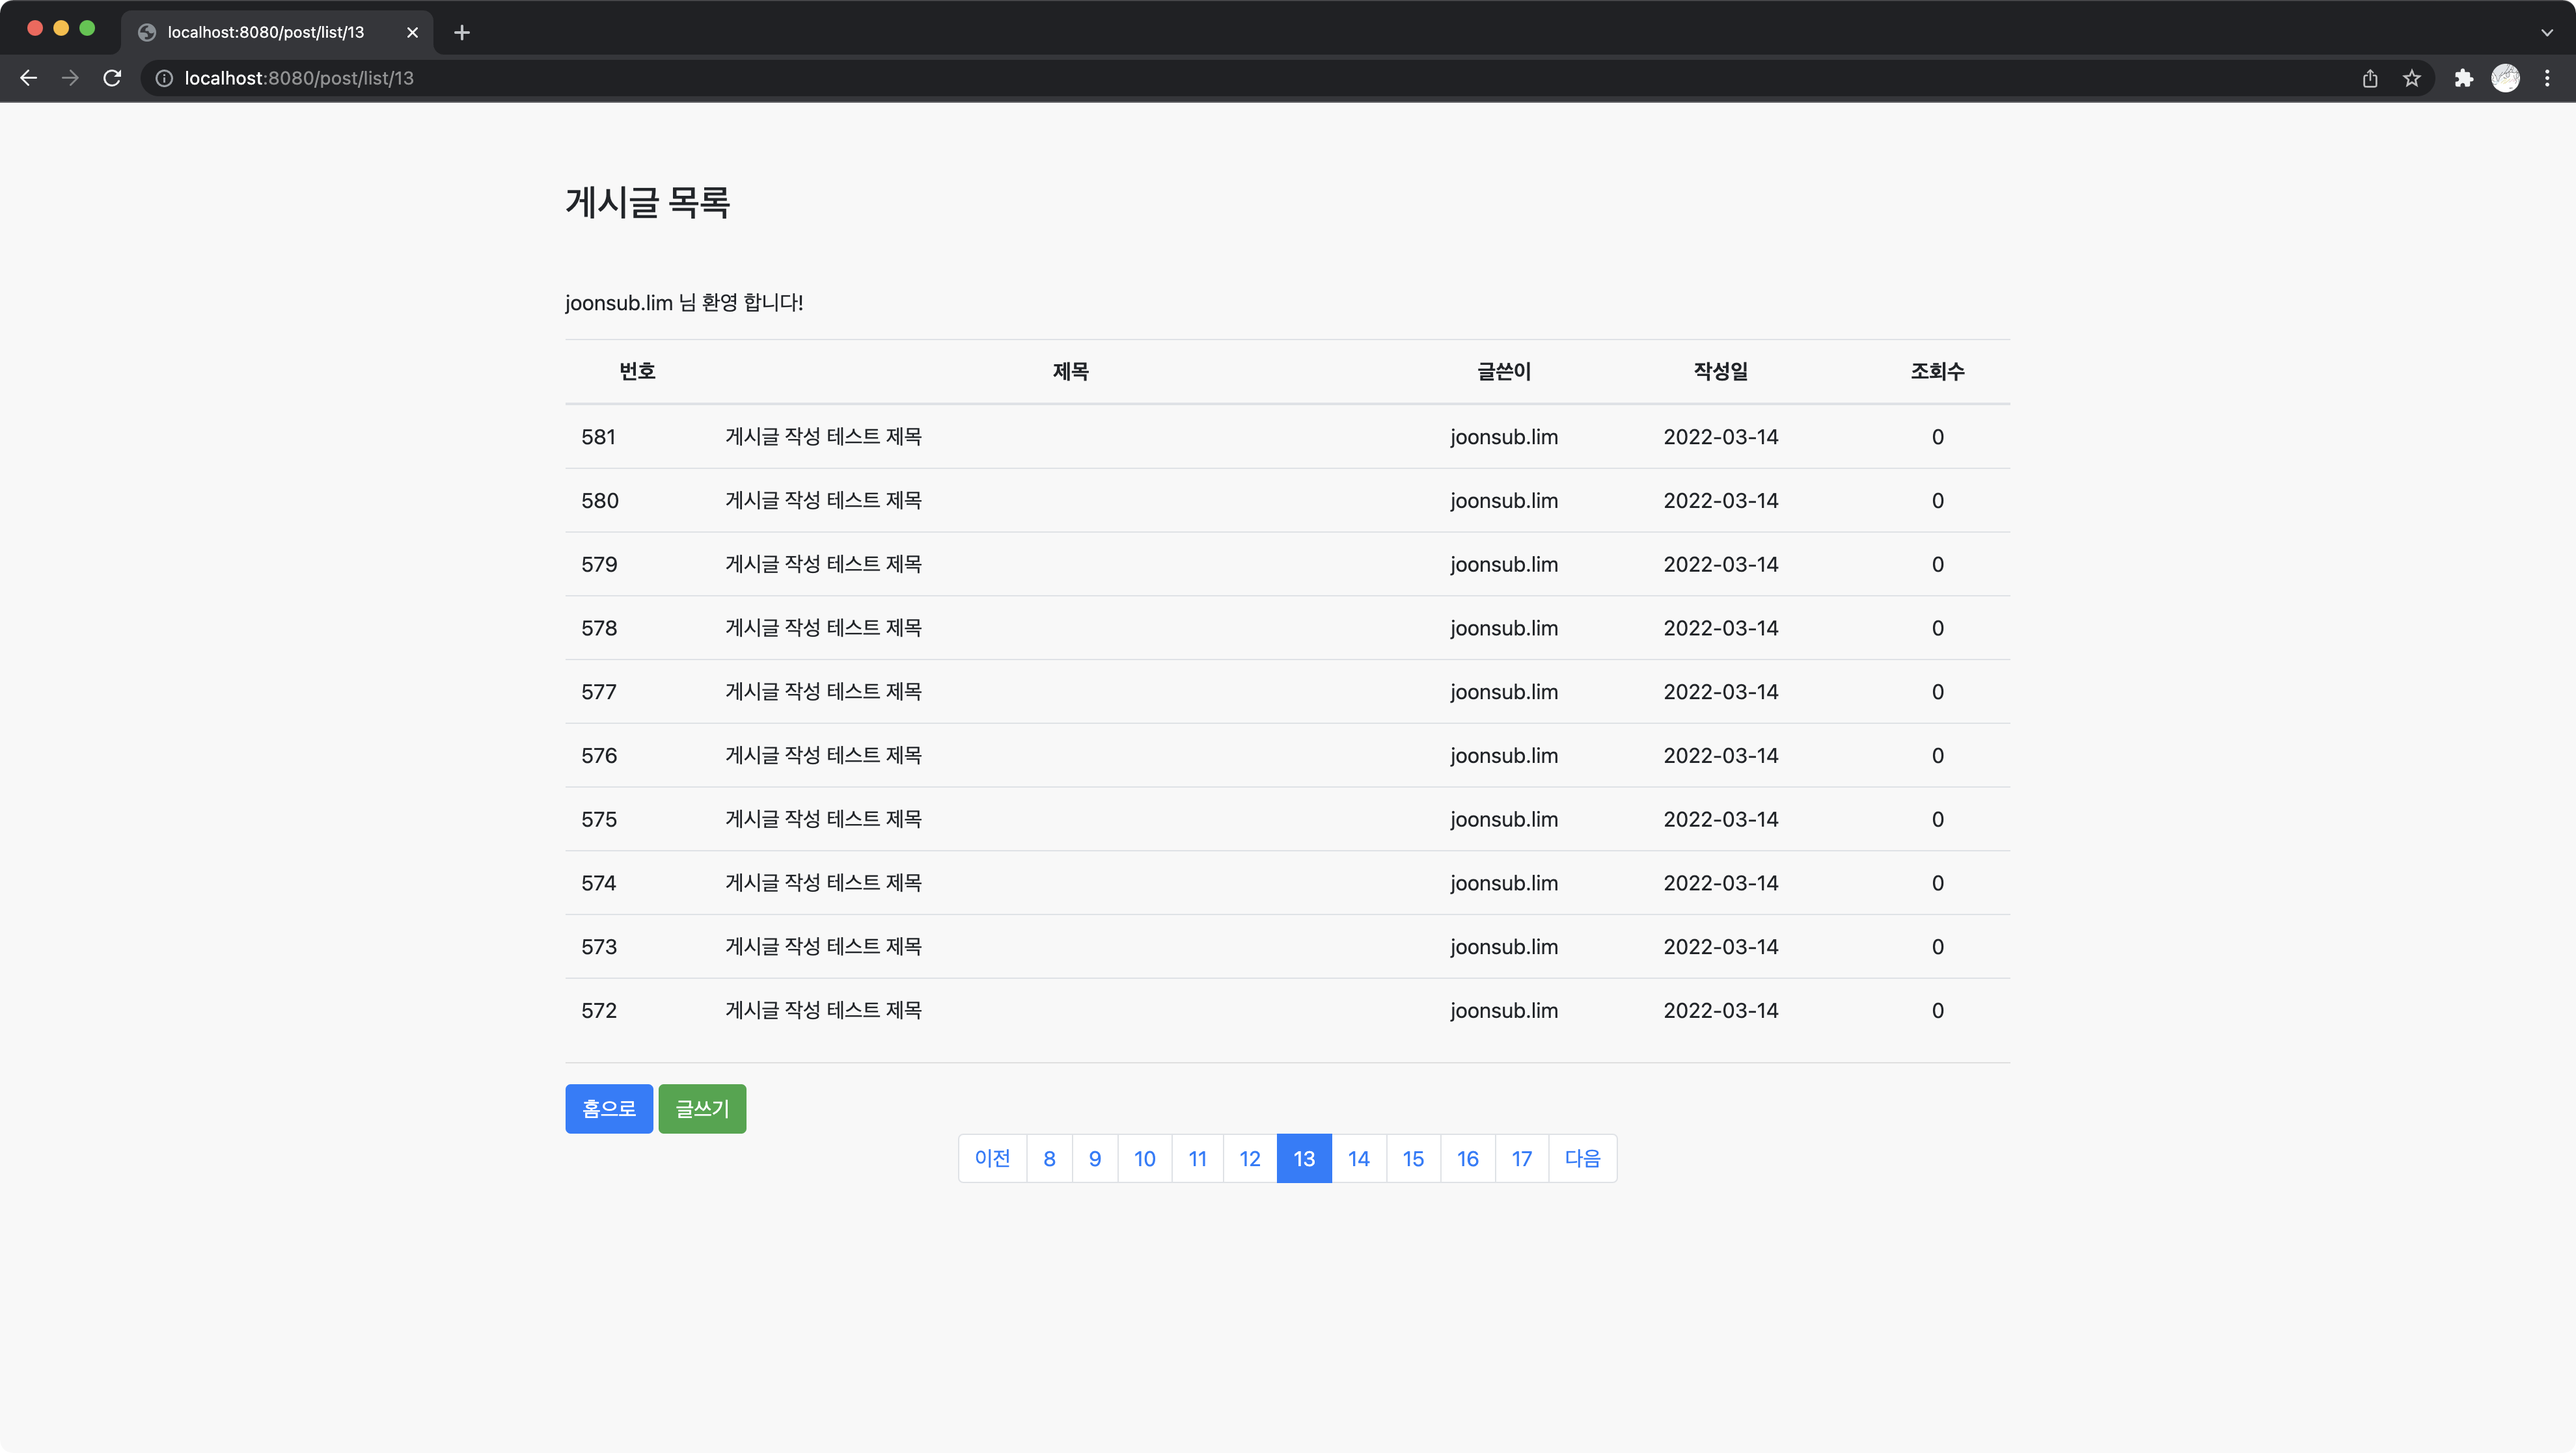
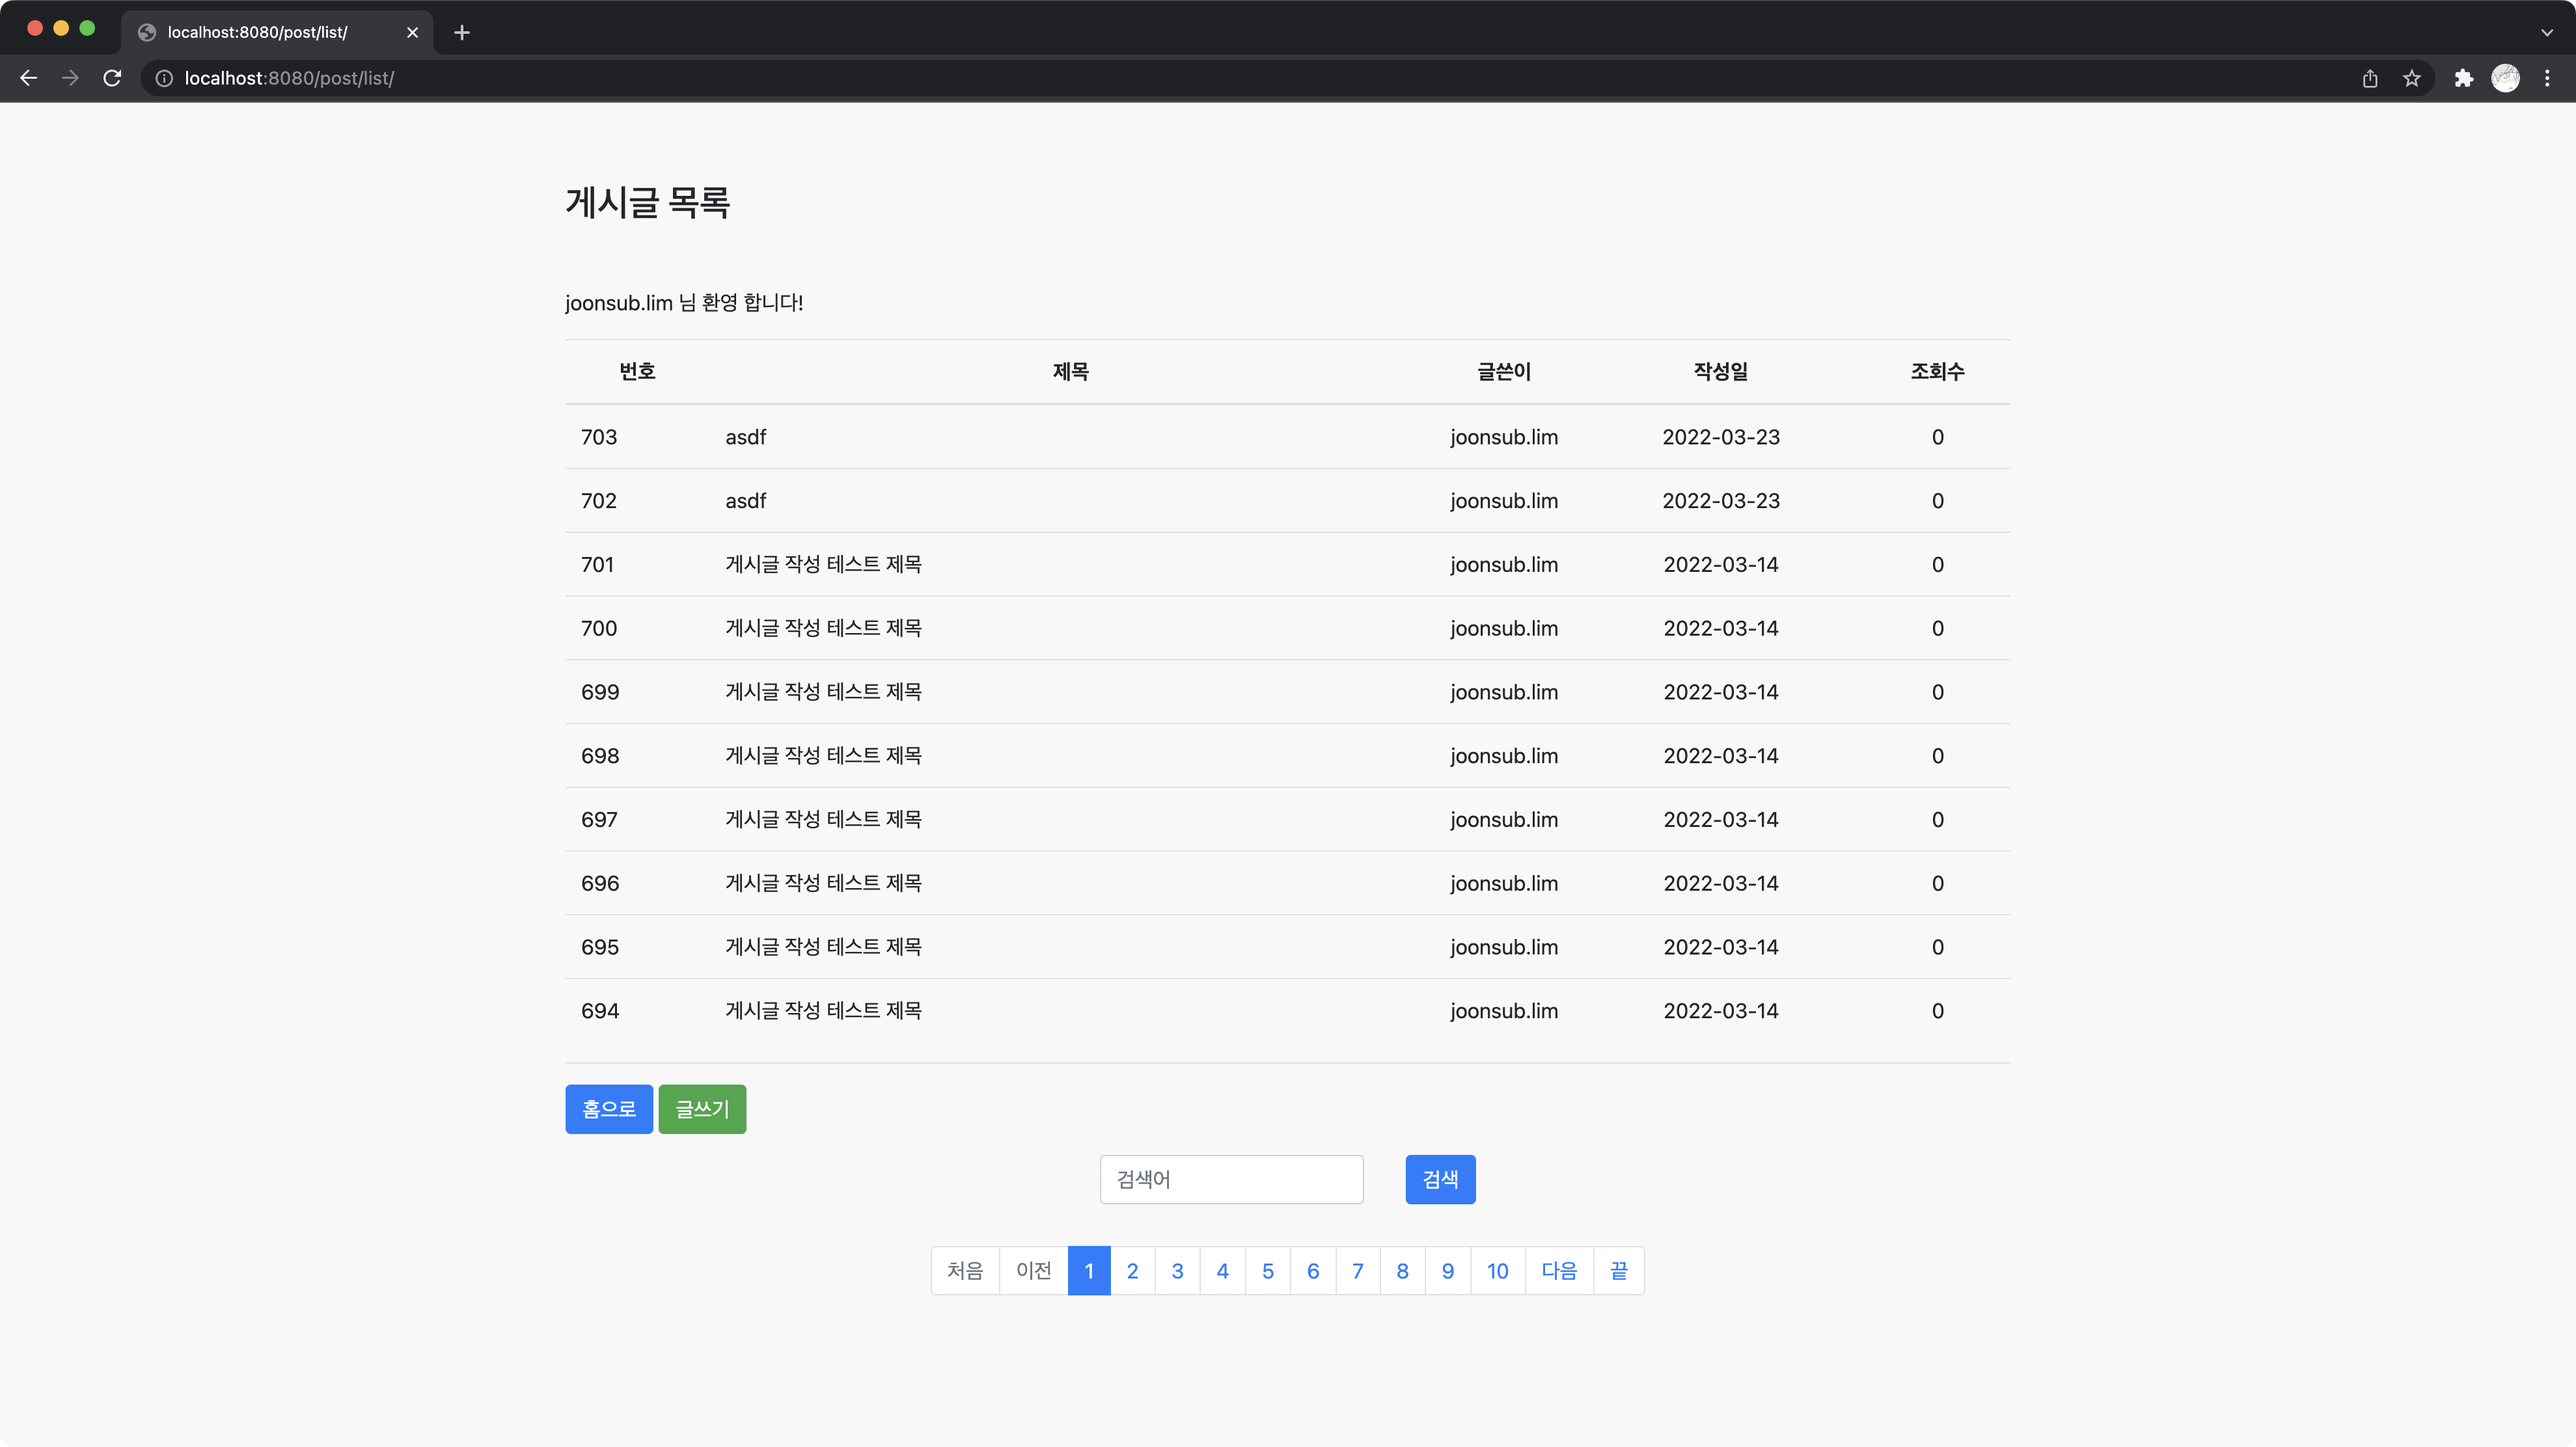
1. 페이징 기능 개선 2. 도커 빌드 에러 수정 (Dockerfile 수정) 3. go 빌드 오류 수정 (패키지 추가)

diff --git a/templates/post/list.html b/templates/post/list.html
@@ -58,15 +58,33 @@
         </form>
         <hr />
         
-        <div>
+        <div class="mb-3">
             <a href="/" class="btn btn-primary">홈으로</a>
             {{if .login}}
             <a href="/post/register" class="btn btn-success">글쓰기</a>
             {{ end }}
         </div>
 
+        <div class="mb-3">
+            <form class="form-inline justify-content-center">
+                <div class="form-group mx-sm-3 mb-3">
+                    <label for="keyword" class="sr-only">검색어</label>
+                    <input type="text" class="form-control" id="keyword" placeholder="검색어">
+                </div>
+                <div class="form-group mx-sm-3 mb-3">
+                    <button type="submit" class="btn btn-primary">검색</button>
+                </div>
+              </form>
+        </div> 
+
         <div class="text-center">
             <ul class="pagination justify-content-center">
+                {{ if eq .pages.First 0 }}
+                <li class="page-item disabled"><a class="page-link"  href="/post/list/{{ .pages.First }}">처음</a></li>
+                {{ else }}
+                <li class="page-item"><a class="page-link"  href="/post/list/{{ .pages.First }}">처음</a></li>
+                {{ end }}
+
                 {{ if eq .pages.Prev 0 }}
                 <li class="page-item disabled"><a class="page-link"  href="/post/list/{{ .pages.Prev }}">이전</a></li>
                 {{ else }}
@@ -92,6 +110,12 @@
                 <li class="page-item disabled"><a class="page-link"  href="/post/list/{{ .pages.Next }}">다음</a></li>
                 {{ else }}
                 <li class="page-item"><a class="page-link"  href="/post/list/{{ .pages.Next }}">다음</a></li>
+                {{ end }}
+
+                {{ if eq .pages.Last 0 }}
+                <li class="page-item disabled"><a class="page-link"  href="/post/list/{{ .pages.Last }}">끝</a></li>
+                {{ else }}
+                <li class="page-item"><a class="page-link"  href="/post/list/{{ .pages.Last }}">끝</a></li>
                 {{ end }}
             </ul>
         </div>

diff --git a/post/page.go b/post/page.go
@@ -4,6 +4,8 @@ import "math"
 
 type PageInfo struct {
 	Total    int64
+	First    int
+	Last     int
 	Prev     int
 	Next     int
 	Current  int
@@ -14,8 +16,8 @@ type PageInfo struct {
 }
 
 const (
-	column_max int = 10
-	search_max int = 10
+	col_max int = 10
+	row_max int = 10
 )
 
 func NewPageInfo() *PageInfo {
@@ -30,34 +32,39 @@ func SetPageInfo(pageInfo *PageInfo) error {
 	}
 
 	pageInfo.Start = pageInfo.Current
-	pageInfo.End = (int)(math.Ceil((float64(pageInfo.Total) / float64(search_max))))
-	pageInfo.Prev = pageInfo.Current - 1
-	pageInfo.Next = pageInfo.Current + 1
+	pageInfo.End = (int)(math.Ceil((float64(pageInfo.Total) / float64(row_max))))
+	pageInfo.First = 1
+	pageInfo.Last = pageInfo.End
+	pageInfo.Prev = pageInfo.Current - 10
+	pageInfo.Next = pageInfo.Current + 10
 
-	pageMax := func(current int, end int) int {
-		if end-current > search_max {
-			return current + search_max
-		}
-		return end
-	}(pageInfo.Current, pageInfo.End)
+	if pageInfo.Current-row_max < 1 {
+		pageInfo.Prev = 1
+	} else if pageInfo.Current+row_max > pageInfo.End {
+		pageInfo.Next = pageInfo.End
+	}
 
-	pageMin := func(current int, end int) int {
-		if end-current < search_max {
-			return end - search_max
-		}
-		return pageInfo.Start
-	}(pageInfo.Current, pageInfo.End)
+	if pageInfo.Current == 1 {
+		pageInfo.First = 0
+		pageInfo.Prev = 0
+	} else if pageInfo.Current == pageInfo.End {
+		pageInfo.Last = 0
+		pageInfo.Next = 0
+	}
 
-	for i := pageMin; i < pageInfo.Current; i++ {
+	startIndex := pageInfo.Current - (pageInfo.Current % 10) + 1
+	endIndex := startIndex + 10
+
+	if endIndex > pageInfo.End {
+		endIndex = pageInfo.End + 1
+	}
+
+	for i := startIndex; i < pageInfo.Current; i++ {
 		pageInfo.LIndexes = append(pageInfo.LIndexes, i)
 	}
 
-	for i := pageInfo.Current + 1; i < pageMax; i++ {
+	for i := pageInfo.Current + 1; i < endIndex; i++ {
 		pageInfo.RIndexes = append(pageInfo.RIndexes, i)
-	}
-
-	if pageInfo.Current == pageInfo.End {
-		pageInfo.Next = 0
 	}
 
 	return nil

diff --git a/post/list.go b/post/list.go
@@ -30,7 +30,7 @@ func List(c *gin.Context) (*[]database.Post, *PageInfo) {
 	pageInfo.Total = count
 	SetPageInfo(pageInfo)
 
-	if err := database.GetPostPaged(db.DBConn, list, pageInfo.Current, column_max); err != nil {
+	if err := database.GetPostPaged(db.DBConn, list, pageInfo.Current, col_max); err != nil {
 		return nil, nil
 	}
 

diff --git a/README.md b/README.md
@@ -22,7 +22,7 @@
 |10|게시물 리스트 페이징 처리|게시물을 전체 가져오지 않고 페이지 처리 기능을 추가한다|완료|
 |11|게시물 검색 기능 추가|게시물의 검색 기능을 추가한다|예정|
 |12|게시물의 댓글 기능을 추가|게시물의 댓글을 추가할수 있도록 한다|완료|
-|13|게시물의 파일첨부 기능 추가|게시물에 파일을 첨부할 수 있도록 한다|예정|
+|13|게시물의 파일첨부 기능 추가|게시물에 파일을 첨부할 수 있도록 한다|완료|
 |14|관리자 기능 추가|관리자 계정 생성 및 일반 계정과 역할을 분리 한다|예정|
 |15|배포하기|도커를 이용해 프로젝트를 빌드 및 배포한다|완료|
 |+|테스트 환경 구축 및 테스트|테스트 코드 작성 및 유닛 테스트, POSTMAN을 이용한 테스트|추가 예정|
